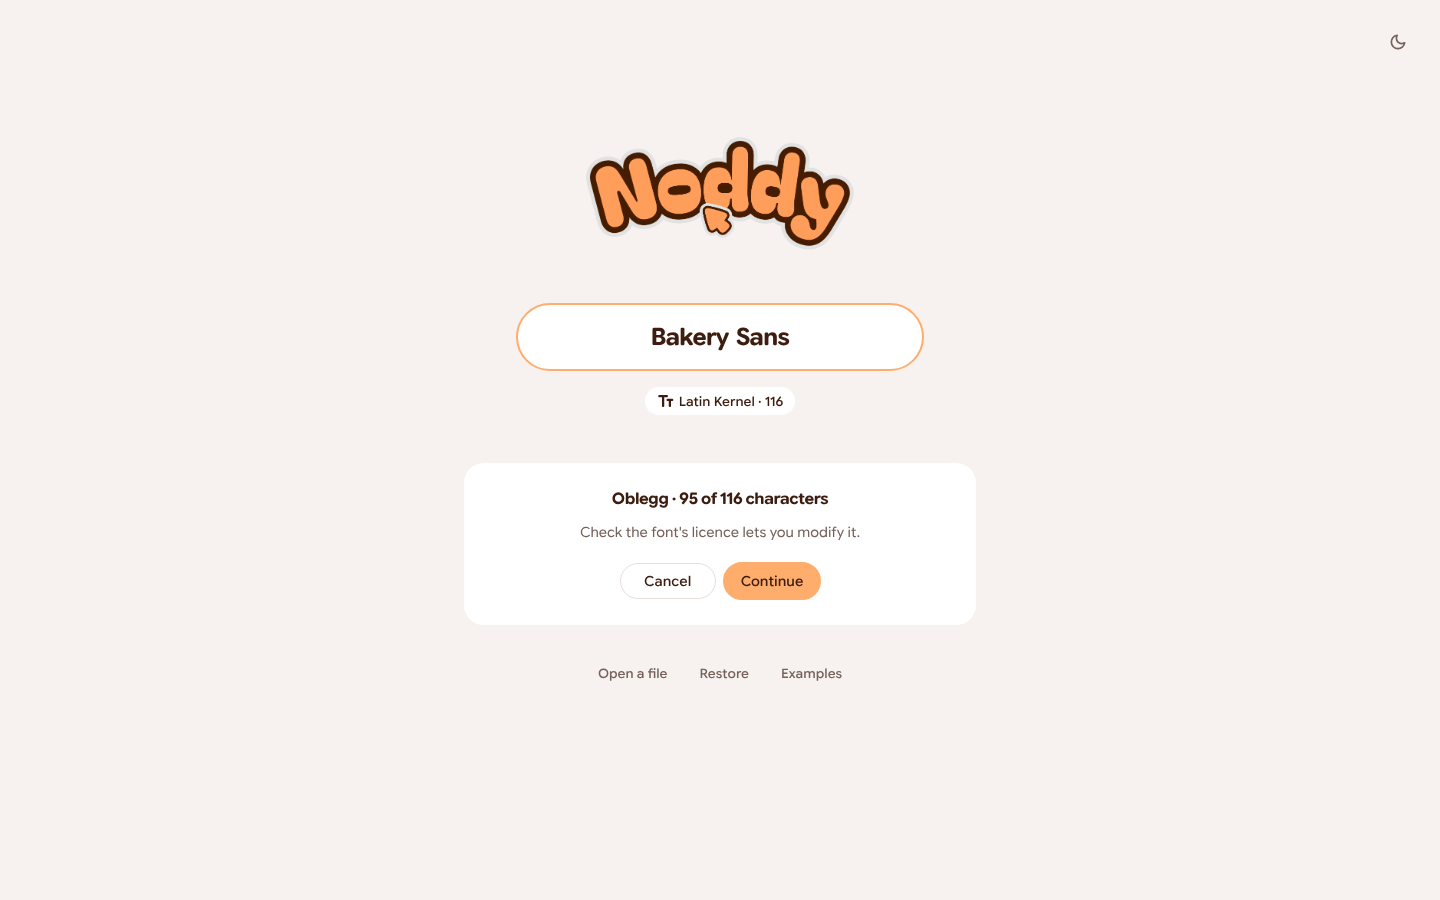
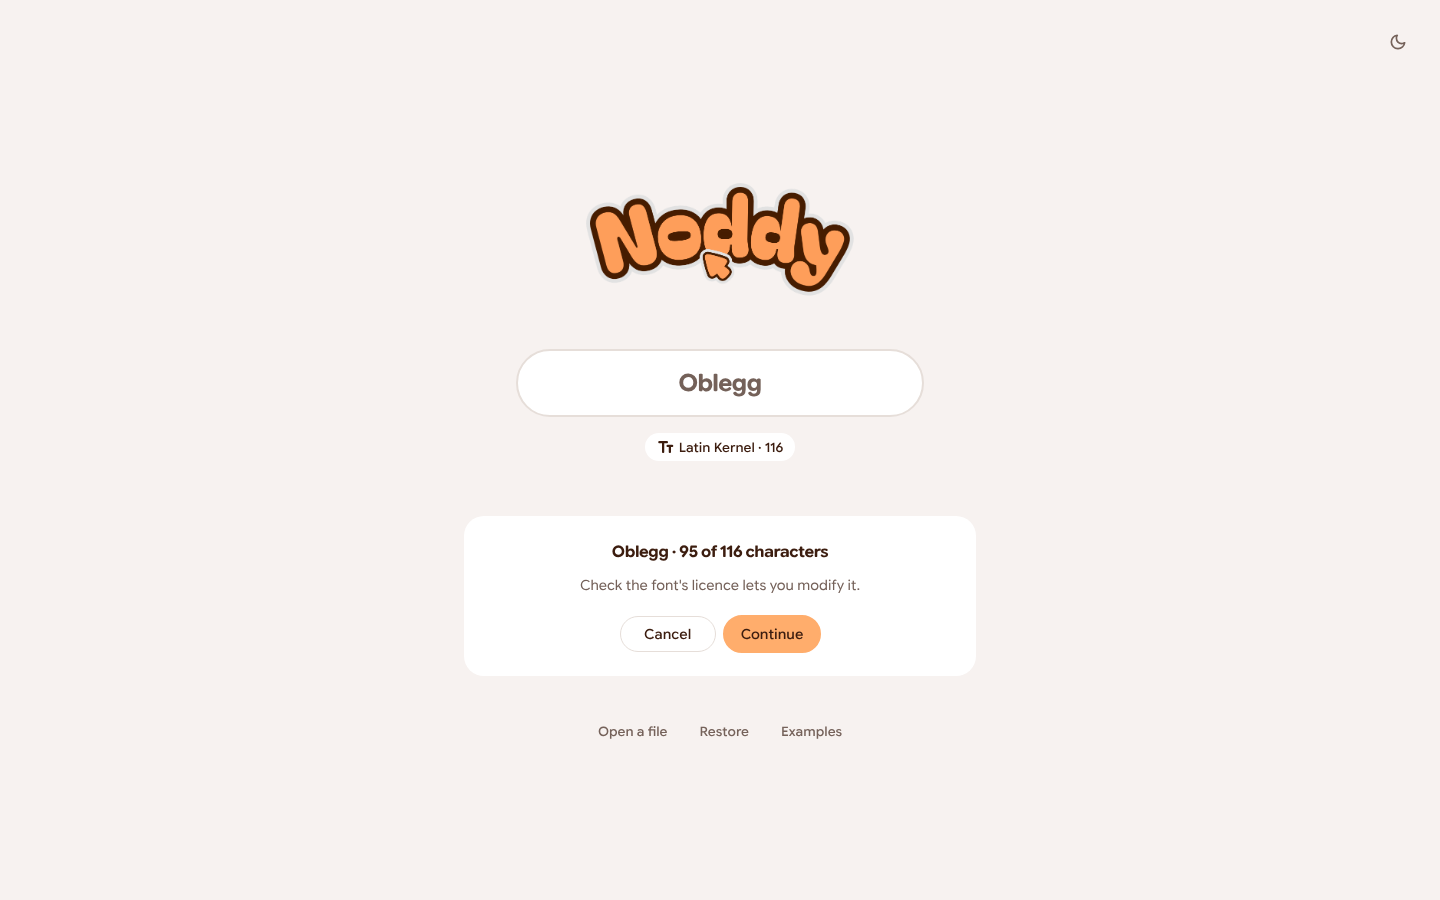
fix(start): QA round 1 for the start screen
- Pin the stage to one measured height (174px desktop, 264px phone,
  232px dialog) so the row below never moves when the import progress or
  the licence note replaces the cards.
- Drop .woff2 from the font picker: there is no importer for it.
- Dismiss a stale error when a new font pick starts; Esc cancels the note
  from anywhere on the page; the name field shows the imported family and
  is read-only while the note is up.
- Focus the agent composer after a start with the panel open, and the
  first letter tile when it is minimized.
- Name field: single peach border on focus, as in flow-01; centre the
  logo-to-cards group like flow-01.
- Tests: invalid file, bad-then-good and good-then-bad picks (validator
  result leak), Esc from the page, name field during the note, focus after
  each start, accepted types.
- Screenshots cut to four.

Claude-Session: https://claude.ai/code/session_01SojzY7MznXKEAYiSdw98cA

diff --git a/src/app/tests/start_font.test.js b/src/app/tests/start_font.test.js
@@ -8,7 +8,11 @@ import {
 	getAgentPanel,
 	resetAgentPanelForTests,
 } from '../../agent/ui/agent-panel.js';
-import { getAgentPanelMode, resetAgentPanelSlotForTests } from '../agent_panel_slot.js';
+import {
+	getAgentPanelMode,
+	getAgentPanelSlot,
+	resetAgentPanelSlotForTests,
+} from '../agent_panel_slot.js';
 import { ioFont_exportFont } from '../../formats_io/otf/font_export.js';
 import {
 	isInLatinKernel,
@@ -18,6 +22,7 @@ import {
 import { ProjectEditor } from '../../project_editor/project_editor.js';
 import { getCurrentProjectEditor, getGlyphrStudioApp, setCurrentProjectEditor } from '../main.js';
 import {
+	FONT_FILE_ACCEPT,
 	makePage_OpenProject,
 	showLicenceNote,
 	startFromFontFile,
@@ -37,7 +42,7 @@ import {
 // jsdom has no Web Animations; dialogs.js animates menus away on close.
 if (!Element.prototype.animate) Element.prototype.animate = () => ({});
 
-const FIXTURE_DIR =path.resolve(__dirname, '../../formats_io/otf/tests');
+const FIXTURE_DIR = path.resolve(__dirname, '../../formats_io/otf/tests');
 
 function readFixture(name) {
 	return new Uint8Array(fs.readFileSync(path.join(FIXTURE_DIR, name))).buffer;
@@ -132,6 +137,32 @@ describe('New font: project state for each start (#23)', () => {
 		expect(editor.nav.page).toBe('Workspace');
 		expect(getAgentPanel().mode).toBe('minimized');
 		expect(getAgentPanelMode()).toBe('minimized');
+	});
+
+	it('focus lands in the composer when the panel opens', () => {
+		mountStartScreen();
+		buildPanel('minimized');
+		// navigate() is a spy here; stand in for the Workspace it would build.
+		getCurrentProjectEditor().navigate = vi.fn(() =>
+			document.querySelector('#app__wrapper').replaceChildren(getAgentPanelSlot())
+		);
+		document.querySelector('[data-start="agent"]').click();
+		expect(document.activeElement).toBe(getAgentPanel().composer.input);
+	});
+
+	it('focus lands on the first letter tile when the panel is minimized', async () => {
+		mountStartScreen();
+		buildPanel('open');
+		const editor = getCurrentProjectEditor();
+		// navigate() is a spy here; stand in for the grid it would render.
+		editor.navigate = vi.fn(() => {
+			const tile = document.createElement('glyph-grid-tile');
+			tile.setAttribute('tabindex', '0');
+			document.querySelector('#app__wrapper').replaceChildren(tile);
+		});
+		document.querySelector('[data-start="draw"]').click();
+		await new Promise((resolve) => requestAnimationFrame(resolve));
+		expect(document.activeElement.tagName).toBe('GLYPH-GRID-TILE');
 	});
 
 	it('openStartProject never lands on a hidden page', () => {
@@ -281,6 +312,61 @@ describe('From a font file (#24)', () => {
 		await vi.waitFor(() => expect(document.querySelector('.start__note')).not.toBeNull());
 		expect(document.querySelector('.start__note-line').textContent).toBe(LICENCE_NOTE);
 		expect(getCurrentProjectEditor().navigate).not.toHaveBeenCalled();
+	});
+
+	it('the picker offers only types the importers read (no .woff2)', () => {
+		expect(FONT_FILE_ACCEPT.split(',')).toEqual(['.otf', '.ttf', '.woff', '.svg']);
+		expect(START_CARDS.find((card) => card.id === 'file').line).toBe('OTF, TTF or SVG');
+	});
+
+	it('an invalid file shows an error, brings the cards back and creates no project', async () => {
+		mountStartScreen();
+		const before = getCurrentProjectEditor();
+		const beforeProject = before.project;
+		await startFromFontFile(new File(['{"not": "a font"}'], 'notes.json'));
+
+		expect(document.querySelector('#error')).not.toBeNull();
+		expect(document.querySelector('.start__note')).toBeNull();
+		expect(document.querySelectorAll('.start-card')).toHaveLength(3);
+		expect(document.activeElement.dataset.start).toBe('file');
+		expect(getCurrentProjectEditor()).toBe(before);
+		expect(before.project).toBe(beforeProject);
+		expect(before.navigate).not.toHaveBeenCalled();
+	});
+
+	it('regression: a good pick after a bad one reaches the note (validator result leak)', async () => {
+		mountStartScreen();
+		await startFromFontFile(new File(['nope'], 'broken.otf'));
+		expect(document.querySelector('#error')).not.toBeNull();
+		expect(document.querySelector('.start__note')).toBeNull();
+
+		const good = new File([readFixture('ObleggExtendedTestRegular.otf')], 'Oblegg.otf');
+		await startFromFontFile(good);
+		expect(document.querySelector('.start__note-line').textContent).toBe(LICENCE_NOTE);
+		// The stale error from the first pick is dismissed.
+		await vi.waitFor(() => expect(document.querySelector('#error')).toBeNull());
+
+		// And the reverse: a bad pick after a good one does not reuse the old font.
+		document.querySelector('[data-action="cancel"]').click();
+		await startFromFontFile(new File(['nope'], 'broken.otf'));
+		expect(document.querySelector('.start__note')).toBeNull();
+		expect(document.querySelector('#error')).not.toBeNull();
+		expect(getCurrentProjectEditor().navigate).not.toHaveBeenCalled();
+	});
+
+	it('while the note is up the name shows the imported family, read-only; Esc anywhere cancels', async () => {
+		mountStartScreen();
+		/** @type {HTMLInputElement} */
+		const name = document.querySelector('#input__new-project-name');
+		name.value = 'Typed';
+		showLicenceNote(await importFixture());
+		expect(name.value).toBe('Oblegg');
+		expect(name.disabled).toBe(true);
+
+		document.body.dispatchEvent(new KeyboardEvent('keydown', { key: 'Escape', bubbles: true }));
+		expect(document.querySelector('.start__note')).toBeNull();
+		expect(name.value).toBe('Typed');
+		expect(name.disabled).toBe(false);
 	});
 
 	it('the subsetted project exports and re-imports with only Kernel glyphs', async () => {

diff --git a/src/app/app-pages.css b/src/app/app-pages.css
@@ -15,7 +15,10 @@
 	align-items: center;
 	width: 100%;
 	min-height: 100vh;
-	padding: var(--space-12) var(--space-4);
+	/* The page sits 40px up (top: -40px, no top bar here). The extra top
+	padding (40px + the 64px secondary row) centres the logo-to-cards group
+	in the viewport the way flow-01 does, with the quiet row hanging below. */
+	padding: calc(var(--space-12) + 40px + 64px) var(--space-4) var(--space-12);
 	overflow-y: auto;
 	background-color: var(--color-bg-canvas);
 	color: var(--color-text-primary);
@@ -75,7 +78,7 @@ focus outline in from currentColor. */
 	height: 68px;
 	margin: 0;
 	padding: 0 var(--space-6);
-	border: 2px solid var(--color-border-accent);
+	border: 2px solid var(--color-border-strong);
 	border-radius: var(--radius-full);
 	background-color: var(--color-bg-surface);
 	color: var(--color-text-primary);
@@ -93,11 +96,17 @@ focus outline in from currentColor. */
 	border-color: var(--color-bg-accent-hover);
 }
 
+/* Focus is the single peach border, as in flow-01 (rest: border-strong). */
 #open-project__page .start__name:focus,
 #open-project__page .start__name:focus-visible {
-	border-color: var(--color-border-accent);
-	outline: 2px solid var(--color-focus-ring);
-	outline-offset: 2px;
+	border-color: var(--color-focus-ring);
+	outline: none;
+}
+
+#open-project__page .start__name:disabled {
+	border-color: var(--color-border-default);
+	color: var(--color-text-secondary);
+	cursor: default;
 }
 
 .start__set {
@@ -119,11 +128,18 @@ focus outline in from currentColor. */
 	font-size: 18px;
 }
 
-/* Stage: the cards, the import progress or the licence note. Same
-min-height for all three so nothing below jumps. */
+/* Stage: the cards, the import progress or the licence note. One fixed
+height for all three so the row below never moves. Measured at 1440:
+card = 24 padding + 52 icon + 24 gap + 22 title + 4 + 20 line + 24 padding
++ 4 border = 174px; the note and the progress indicator are shorter and
+centre inside it. Phone: 3 stacked 80px rows + 2 × 12px gaps = 264px. */
+#open-project__page {
+	--start-stage-height: 174px;
+}
+
 .start__stage {
 	width: 100%;
-	min-height: 162px;
+	height: var(--start-stage-height);
 	display: flex;
 	flex-direction: column;
 	justify-content: center;
@@ -141,8 +157,7 @@ min-height for all three so nothing below jumps. */
 	display: flex;
 	flex-direction: column;
 	align-items: flex-start;
-	min-height: 162px;
-	height: 100%;
+	height: var(--start-stage-height);
 	margin: 0;
 	padding: var(--space-6);
 	border: 2px solid transparent;
@@ -226,7 +241,6 @@ min-height for all three so nothing below jumps. */
 	gap: var(--space-2);
 	width: 100%;
 	max-width: 512px;
-	min-height: 162px;
 	margin: 0 auto;
 	padding: var(--space-6);
 	border-radius: var(--radius-xl);
@@ -428,8 +442,8 @@ min-height for all three so nothing below jumps. */
 		margin-bottom: var(--space-8);
 	}
 
-	.start__stage {
-		min-height: 0;
+	#open-project__page {
+		--start-stage-height: 264px;
 	}
 
 	.start__cards {
@@ -444,7 +458,7 @@ min-height for all three so nothing below jumps. */
 		grid-template-rows: auto auto;
 		column-gap: var(--space-4);
 		align-items: center;
-		min-height: 76px;
+		height: 80px;
 		padding: var(--space-4);
 	}
 
@@ -570,7 +584,7 @@ min-height for all three so nothing below jumps. */
 	grid-template-columns: 44px minmax(0, 1fr);
 	column-gap: var(--space-4);
 	align-items: center;
-	min-height: 72px;
+	height: 72px;
 	padding: var(--space-3) var(--space-4);
 }
 
@@ -581,8 +595,9 @@ min-height for all three so nothing below jumps. */
 	margin: 0;
 }
 
-.modal-dialog__open-new-project .start__stage {
-	min-height: 0;
+/* Dialog: 3 stacked 72px rows + 2 × 8px gaps = 232px. */
+.modal-dialog__open-new-project #open-project__page {
+	--start-stage-height: 232px;
 }
 
 .modal-dialog__open-new-project #open-project__page .start__theme {

diff --git a/src/app/open_project.js b/src/app/open_project.js
@@ -1,6 +1,11 @@
 import { addAsChildren, makeElement } from '../common/dom.js';
 import noddyLogoBig from '../common/graphics/noddy-logo-big.svg?raw';
-import { closeEveryTypeOfDialog, showError, showToast } from '../controls/dialogs/dialogs.js';
+import {
+	closeAllErrors,
+	closeEveryTypeOfDialog,
+	showError,
+	showToast,
+} from '../controls/dialogs/dialogs.js';
 import { makeProgressIndicator } from '../controls/progress-indicator/progress_indicator.js';
 import { cancelDefaultEventActions } from '../edit_canvas/events.js';
 import { ioFont_importFont } from '../formats_io/otf/font_import.js';
@@ -40,7 +45,8 @@ import { getTheme, toggleTheme } from './top_bar.js';
 let isSecondProject;
 
 /** Font files the "From a font file" card accepts. */
-export const FONT_FILE_ACCEPT = '.otf,.ttf,.woff,.woff2,.svg';
+// Only what the validator and importers read: no .woff2 (no importer).
+export const FONT_FILE_ACCEPT = '.otf,.ttf,.woff,.svg';
 
 /** The three starts, in order. `icon` is a Material Symbol; null uses the Noddy mark. */
 export const START_CARDS = Object.freeze([
@@ -255,6 +261,8 @@ function pickFontFile() {
  * @returns {Promise<void>}
  */
 export function startFromFontFile(file) {
+	// A new pick replaces any error left over from the last one.
+	closeAllErrors();
 	const stage = document.querySelector('.start__stage');
 	if (stage) stage.replaceChildren(makeProgressIndicator());
 	// Where the File System Access API exists, the validator expects a file
@@ -331,25 +339,55 @@ export function showLicenceNote(result) {
 	const line = makeElement({ tag: 'p', className: 'start__note-line', content: LICENCE_NOTE });
 	const actions = makeElement({ className: 'start__note-actions' });
 
+	// While the note is up the name field shows the imported family (the
+	// project keeps the font's own name) and is read-only.
+	/** @type {HTMLInputElement | null} */
+	const nameInput = document.querySelector('#input__new-project-name');
+	const typed = nameInput?.value;
+	if (nameInput) {
+		nameInput.value = family;
+		nameInput.disabled = true;
+	}
+
+	// Esc cancels from anywhere on the page while the note is up.
+	const onKey = (event) => {
+		if (!note.isConnected) {
+			document.removeEventListener('keydown', onKey);
+			return;
+		}
+		if (event.key !== 'Escape') return;
+		event.preventDefault();
+		close();
+		showStartCards('file');
+	};
+	function close() {
+		document.removeEventListener('keydown', onKey);
+		if (nameInput) {
+			nameInput.disabled = false;
+			nameInput.value = typed;
+		}
+	}
+	document.addEventListener('keydown', onKey);
+
 	const cancel = makeElement({
 		tag: 'button',
 		className: 'start__button start__button--secondary',
 		content: 'Cancel',
 		attributes: { type: 'button', 'data-action': 'cancel' },
-		onClick: () => showStartCards('file'),
+		onClick: () => {
+			close();
+			showStartCards('file');
+		},
 	});
 	const proceed = makeElement({
 		tag: 'button',
 		className: 'start__button start__button--primary',
 		content: 'Continue',
 		attributes: { type: 'button', 'data-action': 'continue' },
-		onClick: () =>
-			openStartProject(project, { panel: 'open', secondProject: !!isSecondProject }),
-	});
-	note.addEventListener('keydown', (event) => {
-		if (event.key !== 'Escape') return;
-		event.preventDefault();
-		showStartCards('file');
+		onClick: () => {
+			document.removeEventListener('keydown', onKey);
+			openStartProject(project, { panel: 'open', secondProject: !!isSecondProject });
+		},
 	});
 	actions.append(cancel, proceed);
 	note.append(title, line, actions);

diff --git a/src/app/start_font.js b/src/app/start_font.js
@@ -164,5 +164,28 @@ export function openStartProject(project, { panel = 'open', secondProject = fals
 		if (panel === 'minimized') agent.minimize();
 		else agent.restore();
 	}
+	focusAfterStart(panel === 'minimized' ? 'minimized' : 'open');
 	return editor;
+}
+
+/**
+ * Puts keyboard focus somewhere useful after a start: the agent composer
+ * when the panel is open, the first letter tile when it is minimized.
+ * Runs now and again on the next frame, after the grid has rendered.
+ * @param {'open' | 'minimized'} panel
+ */
+export function focusAfterStart(panel) {
+	const target = () =>
+		/** @type {HTMLElement | null} */ (
+			panel === 'open'
+				? getAgentPanel()?.composer?.input || null
+				: document.querySelector('glyph-grid-tile[tabindex="0"]')
+		);
+	target()?.focus();
+	// The grid may render its tiles a frame later; only fill in focus that
+	// was lost (nothing focused), never steal it.
+	requestAnimationFrame(() => {
+		const active = document.activeElement;
+		if (!active || active === document.body || !active.isConnected) target()?.focus();
+	});
 }
